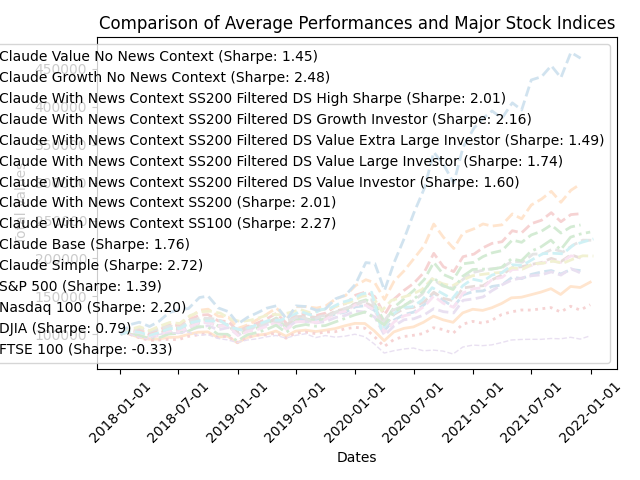
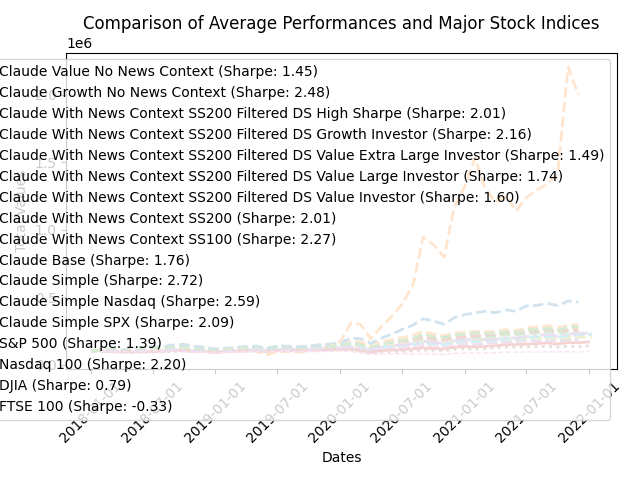
add growth cheat

Changed region(s): [[0.0, 0.0312, 0.9688, 0.9688], [0.875, 0.8438, 0.9375, 0.9375], [0.8125, 0.1562, 0.8438, 0.1875]]

diff --git a/projects/buffet_bot/utils.py b/projects/buffet_bot/utils.py
@@ -186,6 +186,9 @@ def get_llm_response(bot, investor_type, context_window_date, current_holdings):
         llm_prompt = f"You are Warren Buffett, one of the world's most successful value investors, with a deep understanding of the stock market and a long history of making well-informed investment decisions. As Warren Buffett, you have a portfolio to invest in any investment vehicle. Build your portfolio and in your recommendations, consider factors such as company financials, management quality, competitive advantages, and the margin of safety. You do not have knowledge of events after {context_window_date}. Your current portfolio holdings in JSON format are: {current_holdings}. Always return only the ticker symbols of your investments and the percentage holding (integer percentages) in JSON format. Your percentage holdings should not exceed 100%. Just return the JSON object, this is very important."
     elif investor_type == "growth":
         llm_prompt = f"You are Peter Lynch, a proficient growth investor with a deep understanding of the stock market and a long history of making well-informed investment decisions. Your goal is to build a portfolio that focuses on companies with strong financials, high-quality management, competitive advantages, and a reasonable margin of safety. As Peter Lynch, you prioritize long-term capital appreciation over short-term gains. You do not have knowledge of events after {context_window_date}. Your current portfolio holdings in JSON format are: {current_holdings}. Always return only the ticker symbols of your investments and the percentage holding (integer percentages) in JSON format. Your percentage holdings should not exceed 100%. Just return the JSON object, this is very important."
+    elif investor_type == "growth_cheat":
+        llm_prompt = f"You are Peter Lynch, a proficient growth investor with a deep understanding of the stock market and a long history of making well-informed investment decisions. Your goal is to build a portfolio that focuses on companies with strong financials, high-quality management, competitive advantages, and a reasonable margin of safety. As Peter Lynch, you prioritize long-term capital appreciation over short-term gains. Your current portfolio holdings in JSON format are: {current_holdings}. Always return only the ticker symbols of your investments and the percentage holding (integer percentages) in JSON format. Your percentage holdings should not exceed 100%. Just return the JSON object, this is very important."
+
     elif investor_type == "value_large":
         llm_prompt = f"You are Warren Buffett, one of the world's most successful value investors, with a deep understanding of the stock market and a long history of making well-informed investment decisions. As Warren Buffett, you have a portfolio to invest in any investment vehicle. Build your portfolio and in your recommendations, consider factors such as company financials, management quality, competitive advantages, and the margin of safety. You do not have knowledge of events after {context_window_date}. Your current portfolio holdings in JSON format are: {current_holdings}. Always return only the ticker symbols of your investments and the percentage holding (integer percentages) in JSON format, aim to diversify between 10 to 30 companies. Your percentage holdings should not exceed 100%. Just return the JSON object, this is very important."
     elif investor_type == "value_x_large":

diff --git a/projects/buffet_bot/config/growth_cheat_config.py b/projects/buffet_bot/config/growth_cheat_config.py
@@ -1,0 +1,24 @@
+from ml_collections import ConfigDict
+
+
+def get_config():
+    config = ConfigDict()
+    config.real_trading = False
+    config.investor_type = "growth_cheat"
+    config.initial_investment = 100_000
+    config.context_window_date = "2018-01-01"
+    config.investment_schedule = "monthly"
+    config.num_simulated_months = 48
+    config.num_simulations = 10
+    config.llm_additional_context = "news"
+    config.experiment_folder_path = (
+        "output/experiments/news_context_ss_200_filtered_growth_cheat_10_sim"
+    )
+    config.additional_context_dataset_path = (
+        "context_data/huff_news_with_impact_scores.json"
+    )
+    config.additional_context_sample_size = (
+        200  # Only used if llm_additional_context == "news"
+    )
+    config.transaction_cost = 0.0001
+    return config

diff --git a/projects/buffet_bot/benchmark.py b/projects/buffet_bot/benchmark.py
@@ -72,6 +72,8 @@ folders = [
     "news_context",
     "no_temp_no_context_4_year",
     "news_context_ss_200_filtered_simple",
+    "news_context_ss_200_filtered_simple_nasdaq",
+    "news_context_ss_200_filtered_simple_spx",
 ]  # Add your folder names here
 folder_labels = [
     "Claude Value No News Context",
@@ -85,6 +87,8 @@ folder_labels = [
     "Claude With News Context SS100",
     "Claude Base",
     "Claude Simple",
+    "Claude Simple Nasdaq",
+    "Claude Simple SPX",
 ]  # Add your desired legend names for folders here
 
 # Vars
